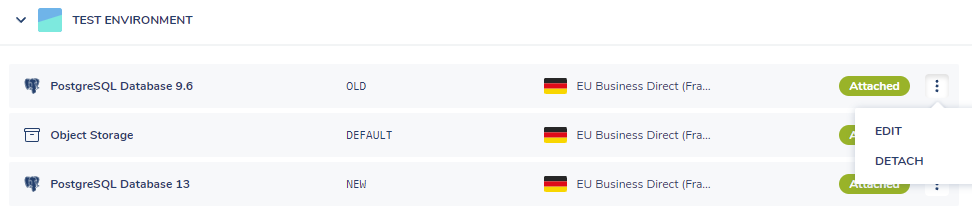
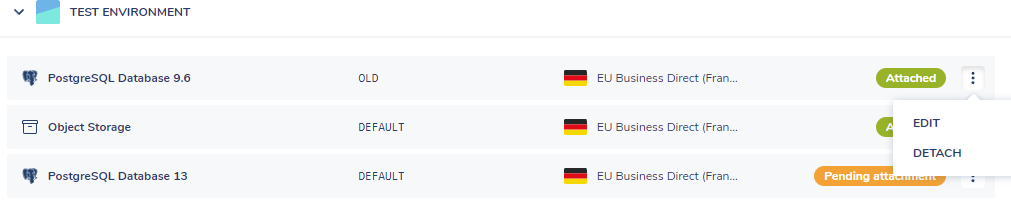
Update docs to clarify terminology

diff --git a/how-to/upgrade-postgres.rst b/how-to/upgrade-postgres.rst
@@ -36,6 +36,11 @@ At this point, the environment is still running on the old version of the databa
 version is deployed and ready to receive data. The following steps will copy the data from the existing database to the new 
 version. 
 
+.. note:: When a service shows as ``Attached``, it means that it is ready to use. It does not indicate that it is being used by 
+    your environment. The new version will not be in use until you deploy the changes in step 11.
+
+    For more information on how and when services are provisioned and attached, please see the Services documentation: https://docs.divio.com/en/latest/background/services/
+
 5. Create a backup for the ``DEFAULT`` database service. 
 
 ..  image:: /images/postgres-upgrade-backup-default.png
@@ -72,9 +77,15 @@ version.
     :class: 'main-visual'
 
 13. Repeat steps 5-11 for each environment.
-14. Update ``docker-compose.yml`` for the project to use the PostgrSQL image ``13.5-alpine``.
 
 Your environment is now using the new PostgreSQL service for the upgraded version. 
+
+IN order to run the project locally with the upgraded database, a few extra steps are required:
+
+14. Update ``docker-compose.yml`` for the project to use the PostgrSQL image ``postgres:13.5-alpine``.
+15. Run ``docker-compose down -v`` to stop the containers and remove the volumes.
+16. Run ``divio app pull db <environment>`` to pull the updated database from the environment you want locally. 
+17. Run ``docker-compose up`` to bring everything up again. 
 
 Risks
 -----
